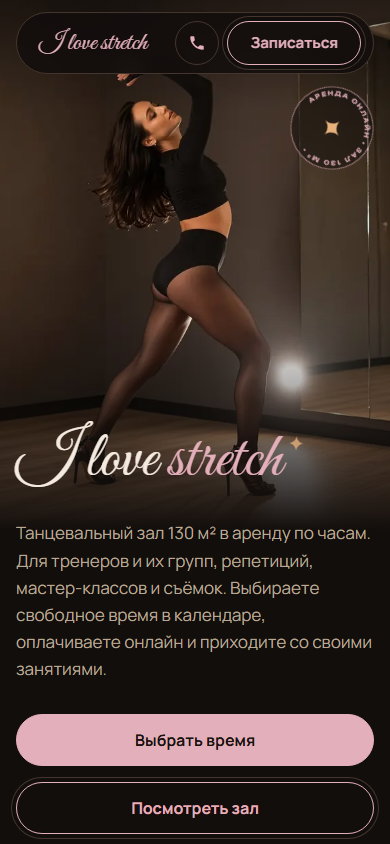
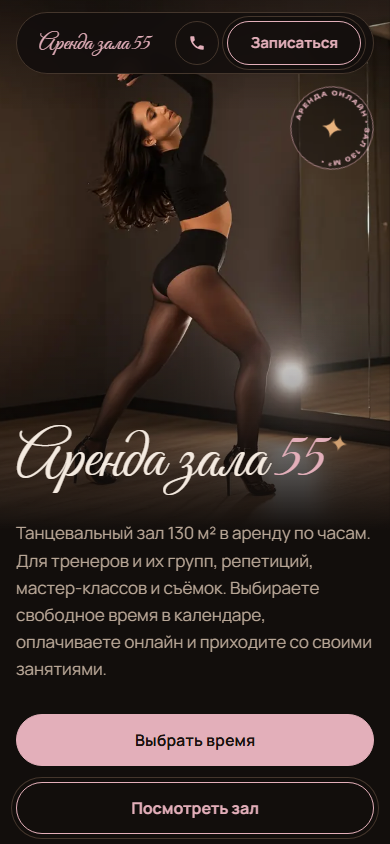
Название «Аренда зала 55», форма записи на втором экране
- Новое название в шапке, заголовке, подвале, письмах, манифесте
- Фавикон «55» вместо сердца
- Блок записи сразу после первого экрана, «Запись» первой в меню
- Логотип на телефоне в одну строку
- В воскресенье после последнего блока календарь открывает следующую неделю
- .gitattributes: одинаковые переводы строк для GitHub

diff --git a/public/index.html b/public/index.html
@@ -3,10 +3,10 @@
 <head>
 <meta charset="utf-8">
 <meta name="viewport" content="width=device-width, initial-scale=1">
-<title>I love stretch — аренда танцевального зала 130 м² по часам в Омске</title>
+<title>Аренда зала 55 — танцевальный зал 130 м² по часам в Омске</title>
 <meta name="description" content="Танцевальный зал 130 м² в аренду по часам в Омске, ул. Фрунзе, 1 к4. Для тренеров, репетиций, мастер-классов и съёмок. Свободное время в календаре, оплата онлайн.">
 <meta name="theme-color" content="#120e0c">
-<link rel="icon" href="/favicon.svg" type="image/svg+xml">
+<link rel="icon" href="/icons/favicon-32.png" type="image/png" sizes="32x32">
 <link rel="icon" href="/favicon.ico" sizes="48x48">
 <link rel="apple-touch-icon" href="/icons/apple-touch-icon.png">
 <link rel="manifest" href="/site.webmanifest">
@@ -23,7 +23,7 @@
 <link rel="preconnect" href="https://fonts.gstatic.com" crossorigin>
 <link href="https://fonts.googleapis.com/css2?family=Cormorant+Garamond:ital,wght@0,500;0,600;1,500;1,600&family=Manrope:wght@400;500;600;700&family=Unbounded:wght@300;500;700&display=swap" rel="stylesheet">
 <!-- каллиграфия без подмены шрифта: надпись не «прыгает» с запасного шрифта -->
-<link href="https://fonts.googleapis.com/css2?family=Great+Vibes&display=block&text=Ilovestrch%20" rel="stylesheet">
+<link href="https://fonts.googleapis.com/css2?family=Great+Vibes&display=block&text=%205%D0%90%D0%B0%D0%B4%D0%B5%D0%B7%D0%BB%D0%BD%D1%80" rel="stylesheet">
 <link rel="stylesheet" href="css/styles.css">
 </head>
 <body>
@@ -36,13 +36,13 @@
 <a class="skip" href="#booking">Перейти к записи</a>
 
 <header class="top">
-  <a class="brand" href="#top" aria-label="I love stretch, наверх">
-    <span class="logo">I love stretch</span>
+  <a class="brand" href="#top" aria-label="Аренда зала 55, наверх">
+    <span class="logo">Аренда зала 55</span>
   </a>
   <nav class="nav" aria-label="Разделы">
-    <a href="#prices">Цены</a>
     <a href="#booking">Запись</a>
     <a href="#gallery">Зал</a>
+    <a href="#prices">Цены</a>
     <a href="#rules">Правила</a>
     <a href="#contacts">Контакты</a>
   </nav>
@@ -63,7 +63,7 @@
 
     <div class="hero-inner">
       <div class="hero-text">
-        <h1 class="logo-title">I love <em>stretch<svg class="spark h1-spark" width="44" height="44" aria-hidden="true"><use href="#spark"/></svg></em></h1>
+        <h1 class="logo-title">Аренда зала <em>55<svg class="spark h1-spark" width="44" height="44" aria-hidden="true"><use href="#spark"/></svg></em></h1>
         <p class="lead">Танцевальный зал 130 м² в аренду по часам. Для тренеров и их групп, репетиций, мастер-классов и съёмок. Выбираете свободное время в календаре, оплачиваете онлайн и приходите со своими занятиями.</p>
         <div class="cta-row">
           <a class="btn" href="#booking">Выбрать время</a>
@@ -92,96 +92,7 @@
     </svg>
   </section>
 
-  <!-- HALL: второй экран, слайдер реальных фото зала -->
-  <section class="hall" id="gallery" aria-labelledby="hallTitle">
-    <div class="hall-head">
-      <h2 id="hallTitle">Наш зал</h2>
-      <p>Только реальные фото: 130 м², окна во всю стену, зеркала, гамаки, раздевалка и ресепшен. Листайте в обе стороны и нажмите на фото, чтобы рассмотреть.</p>
-    </div>
-    <ul class="slider" id="hallSlider" data-slider data-count="hallCount" tabindex="0" aria-label="Фото зала, листайте">
-      <li class="slide"><img data-zoom="hall" data-full="img/hall.webp" src="img/hall.webp" srcset="img/hall-640.webp 640w, img/hall.webp 1280w" sizes="(max-width: 720px) 86vw, 760px" width="1280" height="964" loading="eager" alt="Основной зал: большие окна, зеркала, розовые гамаки, светлый пол"><span class="slide-cap"><b>Основной зал</b><small>1 / 5</small></span></li>
-      <li class="slide"><img data-zoom="hall" data-full="img/zone.webp" src="img/zone.webp" srcset="img/zone-640.webp 640w, img/zone.webp 1280w" sizes="(max-width: 720px) 86vw, 760px" width="1280" height="964" loading="lazy" alt="Зона с зеркалами, стеллажами с ковриками и деревянными перегородками"><span class="slide-cap"><b>Зеркала и инвентарь</b><small>2 / 5</small></span></li>
-      <li class="slide"><img data-zoom="hall" data-full="img/lockers.webp" src="img/lockers.webp" srcset="img/lockers-640.webp 640w, img/lockers.webp 1280w" sizes="(max-width: 720px) 86vw, 760px" width="1280" height="964" loading="lazy" alt="Раздевалка: шкафчики с номерами и скамейки"><span class="slide-cap"><b>Раздевалка</b><small>3 / 5</small></span></li>
-      <li class="slide"><img data-zoom="hall" data-full="img/mirror.webp" src="img/mirror.webp" srcset="img/mirror-640.webp 640w, img/mirror.webp 1280w" sizes="(max-width: 720px) 86vw, 760px" width="1280" height="964" loading="lazy" alt="Зеркало с подсветкой и фен в раздевалке"><span class="slide-cap"><b>Зеркало и фен</b><small>4 / 5</small></span></li>
-      <li class="slide"><img data-zoom="hall" data-full="img/reception.webp" src="img/reception.webp" srcset="img/reception-640.webp 640w, img/reception.webp 1280w" sizes="(max-width: 720px) 86vw, 760px" width="1280" height="964" loading="lazy" alt="Ресепшен и зона ожидания со скамейкой"><span class="slide-cap"><b>Ресепшен</b><small>5 / 5</small></span></li>
-    </ul>
-    <div class="slider-nav">
-      <button class="icon-btn" type="button" data-nav="hallSlider" data-dir="-1" aria-label="Предыдущее фото">
-        <svg width="20" height="20" viewBox="0 0 24 24" aria-hidden="true"><path d="M15 6l-6 6 6 6" fill="none" stroke="currentColor" stroke-width="2" stroke-linecap="round" stroke-linejoin="round"/></svg>
-      </button>
-      <span class="slider-count" id="hallCount" aria-live="polite">1 / 5</span>
-      <button class="icon-btn" type="button" data-nav="hallSlider" data-dir="1" aria-label="Следующее фото">
-        <svg width="20" height="20" viewBox="0 0 24 24" aria-hidden="true"><path d="M9 6l6 6-6 6" fill="none" stroke="currentColor" stroke-width="2" stroke-linecap="round" stroke-linejoin="round"/></svg>
-      </button>
-    </div>
-  </section>
-
-  <!-- HOW -->
-  <section class="section how">
-    <div class="how-photos">
-      <img class="how-a" data-zoom="mood" data-full="img/heels-mirror.webp" src="img/heels-mirror-640.webp" srcset="img/heels-mirror-640.webp 640w, img/heels-mirror.webp 1152w" sizes="(max-width: 960px) 70vw, 340px" width="1152" height="1728" loading="lazy" alt="Танцовщица на каблуках у зеркала в тёмном зале">
-      <img class="how-b" data-zoom="mood" data-full="img/g-heels-group.webp" src="img/g-heels-group.webp" width="459" height="461" loading="lazy" alt="Групповое занятие на каблуках у зеркал">
-    </div>
-    <div class="how-text">
-      <h2>Как арендовать</h2>
-      <ol class="steps">
-        <li><span class="num">1</span><div><h3>Выберите время</h3><p>Зал бронируется блоками по 2 часа. Можно взять несколько блоков подряд, цена видна сразу.</p></div></li>
-        <li><span class="num">2</span><div><h3>Оставьте данные</h3><p>Имя, телефон, почта и, если хотите, формат: тренировка, репетиция, съёмка.</p></div></li>
-        <li><span class="num">3</span><div><h3>Оплатите онлайн</h3><p>Картой или через СБП прямо на сайте, в форме ЮKassa.</p></div></li>
-        <li><span class="num">4</span><div><h3>Получите письмо с инструкцией</h3><p>Время, адрес и где взять ключ: за 15 минут до начала в офисе ITB, 3 этаж, офис 307.</p></div></li>
-      </ol>
-    </div>
-  </section>
-
-  <!-- PRICES -->
-  <section class="section" id="prices">
-    <h2>Цены</h2>
-    <p class="section-lead">Зал бронируется блоками по 2 часа. Вечер самое востребованное время, поэтому дороже.</p>
-    <div class="tariffs">
-      <article class="tariff tariff-day">
-        <img class="tariff-photo" data-zoom="mood" data-full="img/g-aerial-hammock.webp" src="img/g-aerial-hammock.webp" width="459" height="461" loading="lazy" alt="Днём в зале светло: растяжка в гамаке">
-        <p class="tariff-name">День</p>
-        <p class="tariff-price"><span id="priceDay">800</span> ₽<small>/час</small></p>
-        <p class="tariff-time">09:00 – 17:00</p>
-        <p class="tariff-note">1 600 ₽ за блок 2 часа</p>
-      </article>
-      <article class="tariff tariff-peak">
-        <img class="tariff-photo" data-zoom="mood" data-full="img/heels-hero.webp" src="img/heels-hero-800.webp" srcset="img/heels-hero-800.webp 800w, img/heels-hero.webp 1408w" sizes="(max-width: 720px) 100vw, 560px" width="1408" height="1408" loading="lazy" alt="Вечерняя тренировка: тёплый свет и зеркала">
-        <p class="tariff-name">Вечер</p>
-        <p class="tariff-price"><span id="pricePeak">1 000</span> ₽<small>/час</small></p>
-        <p class="tariff-time">17:00 – 21:00</p>
-        <p class="tariff-note">2 000 ₽ за блок 2 часа</p>
-      </article>
-    </div>
-    <div class="timeline" aria-hidden="true">
-      <div class="tl-bar"><i class="d" style="flex:8"></i><i class="p" style="flex:4"></i></div>
-      <div class="tl-scale"><span>09</span><span>13</span><span>17</span><span>21</span></div>
-    </div>
-  </section>
-
-  <!-- RIBBON: лента фото занятий, листается в обе стороны -->
-  <section class="ribbon" aria-label="Фото занятий в зале">
-    <ul class="slider slider--tiles" id="moodSlider" data-slider data-count="moodCount" tabindex="0" aria-label="Фото занятий, листайте">
-      <li class="tile"><img data-zoom="mood" data-full="img/g-heels-group.webp" src="img/g-heels-group.webp" width="459" height="459" loading="lazy" alt="Групповое занятие на каблуках у зеркал"></li>
-      <li class="tile"><img data-zoom="mood" data-full="img/g-aerial-lilac.webp" src="img/g-aerial-lilac.webp" width="459" height="459" loading="lazy" alt="Аэройога на полотнах в светлом зале"></li>
-      <li class="tile"><img data-zoom="mood" data-full="img/g-heels-floor.webp" src="img/g-heels-floor.webp" width="459" height="459" loading="lazy" alt="Хилс: партер на каблуках"></li>
-      <li class="tile"><img data-zoom="mood" data-full="img/g-aerial-loft.webp" src="img/g-aerial-loft.webp" width="459" height="459" loading="lazy" alt="Полотна в зале с большими окнами"></li>
-      <li class="tile"><img data-zoom="mood" data-full="img/g-heels-fringe.webp" src="img/g-heels-fringe.webp" width="459" height="459" loading="lazy" alt="Танцовщица на каблуках в тёплом зале со станком"></li>
-      <li class="tile"><img data-zoom="mood" data-full="img/g-aerial-hammock.webp" src="img/g-aerial-hammock.webp" width="459" height="459" loading="lazy" alt="Растяжка в гамаке"></li>
-      <li class="tile"><img data-zoom="mood" data-full="img/g-twerk.webp" src="img/g-twerk.webp" width="459" height="459" loading="lazy" alt="Тверк в тёмном зале"></li>
-    </ul>
-    <div class="slider-nav">
-      <button class="icon-btn" type="button" data-nav="moodSlider" data-dir="-1" aria-label="Предыдущее фото">
-        <svg width="20" height="20" viewBox="0 0 24 24" aria-hidden="true"><path d="M15 6l-6 6 6 6" fill="none" stroke="currentColor" stroke-width="2" stroke-linecap="round" stroke-linejoin="round"/></svg>
-      </button>
-      <span class="slider-count" id="moodCount" aria-live="polite">1 / 7</span>
-      <button class="icon-btn" type="button" data-nav="moodSlider" data-dir="1" aria-label="Следующее фото">
-        <svg width="20" height="20" viewBox="0 0 24 24" aria-hidden="true"><path d="M9 6l6 6-6 6" fill="none" stroke="currentColor" stroke-width="2" stroke-linecap="round" stroke-linejoin="round"/></svg>
-      </button>
-    </div>
-  </section>
-
-  <!-- BOOKING -->
+  <!-- BOOKING: второй экран — сразу после первого -->
   <section class="section booking" id="booking" aria-labelledby="bookingTitle">
     <h2 id="bookingTitle">Выберите время</h2>
     <p class="section-lead">Бронь блоками по 2 часа: 09–11, 11–13 и так далее. В один день можно взять несколько блоков подряд, чтобы убрать блок, нажмите на крайний выбранный.</p>
@@ -291,6 +202,95 @@
     </div>
   </section>
 
+  <!-- HALL: слайдер реальных фото зала -->
+  <section class="hall" id="gallery" aria-labelledby="hallTitle">
+    <div class="hall-head">
+      <h2 id="hallTitle">Наш зал</h2>
+      <p>Только реальные фото: 130 м², окна во всю стену, зеркала, гамаки, раздевалка и ресепшен. Листайте в обе стороны и нажмите на фото, чтобы рассмотреть.</p>
+    </div>
+    <ul class="slider" id="hallSlider" data-slider data-count="hallCount" tabindex="0" aria-label="Фото зала, листайте">
+      <li class="slide"><img data-zoom="hall" data-full="img/hall.webp" src="img/hall.webp" srcset="img/hall-640.webp 640w, img/hall.webp 1280w" sizes="(max-width: 720px) 86vw, 760px" width="1280" height="964" loading="eager" alt="Основной зал: большие окна, зеркала, розовые гамаки, светлый пол"><span class="slide-cap"><b>Основной зал</b><small>1 / 5</small></span></li>
+      <li class="slide"><img data-zoom="hall" data-full="img/zone.webp" src="img/zone.webp" srcset="img/zone-640.webp 640w, img/zone.webp 1280w" sizes="(max-width: 720px) 86vw, 760px" width="1280" height="964" loading="lazy" alt="Зона с зеркалами, стеллажами с ковриками и деревянными перегородками"><span class="slide-cap"><b>Зеркала и инвентарь</b><small>2 / 5</small></span></li>
+      <li class="slide"><img data-zoom="hall" data-full="img/lockers.webp" src="img/lockers.webp" srcset="img/lockers-640.webp 640w, img/lockers.webp 1280w" sizes="(max-width: 720px) 86vw, 760px" width="1280" height="964" loading="lazy" alt="Раздевалка: шкафчики с номерами и скамейки"><span class="slide-cap"><b>Раздевалка</b><small>3 / 5</small></span></li>
+      <li class="slide"><img data-zoom="hall" data-full="img/mirror.webp" src="img/mirror.webp" srcset="img/mirror-640.webp 640w, img/mirror.webp 1280w" sizes="(max-width: 720px) 86vw, 760px" width="1280" height="964" loading="lazy" alt="Зеркало с подсветкой и фен в раздевалке"><span class="slide-cap"><b>Зеркало и фен</b><small>4 / 5</small></span></li>
+      <li class="slide"><img data-zoom="hall" data-full="img/reception.webp" src="img/reception.webp" srcset="img/reception-640.webp 640w, img/reception.webp 1280w" sizes="(max-width: 720px) 86vw, 760px" width="1280" height="964" loading="lazy" alt="Ресепшен и зона ожидания со скамейкой"><span class="slide-cap"><b>Ресепшен</b><small>5 / 5</small></span></li>
+    </ul>
+    <div class="slider-nav">
+      <button class="icon-btn" type="button" data-nav="hallSlider" data-dir="-1" aria-label="Предыдущее фото">
+        <svg width="20" height="20" viewBox="0 0 24 24" aria-hidden="true"><path d="M15 6l-6 6 6 6" fill="none" stroke="currentColor" stroke-width="2" stroke-linecap="round" stroke-linejoin="round"/></svg>
+      </button>
+      <span class="slider-count" id="hallCount" aria-live="polite">1 / 5</span>
+      <button class="icon-btn" type="button" data-nav="hallSlider" data-dir="1" aria-label="Следующее фото">
+        <svg width="20" height="20" viewBox="0 0 24 24" aria-hidden="true"><path d="M9 6l6 6-6 6" fill="none" stroke="currentColor" stroke-width="2" stroke-linecap="round" stroke-linejoin="round"/></svg>
+      </button>
+    </div>
+  </section>
+
+  <!-- HOW -->
+  <section class="section how">
+    <div class="how-photos">
+      <img class="how-a" data-zoom="mood" data-full="img/heels-mirror.webp" src="img/heels-mirror-640.webp" srcset="img/heels-mirror-640.webp 640w, img/heels-mirror.webp 1152w" sizes="(max-width: 960px) 70vw, 340px" width="1152" height="1728" loading="lazy" alt="Танцовщица на каблуках у зеркала в тёмном зале">
+      <img class="how-b" data-zoom="mood" data-full="img/g-heels-group.webp" src="img/g-heels-group.webp" width="459" height="461" loading="lazy" alt="Групповое занятие на каблуках у зеркал">
+    </div>
+    <div class="how-text">
+      <h2>Как арендовать</h2>
+      <ol class="steps">
+        <li><span class="num">1</span><div><h3>Выберите время</h3><p>Зал бронируется блоками по 2 часа. Можно взять несколько блоков подряд, цена видна сразу.</p></div></li>
+        <li><span class="num">2</span><div><h3>Оставьте данные</h3><p>Имя, телефон, почта и, если хотите, формат: тренировка, репетиция, съёмка.</p></div></li>
+        <li><span class="num">3</span><div><h3>Оплатите онлайн</h3><p>Картой или через СБП прямо на сайте, в форме ЮKassa.</p></div></li>
+        <li><span class="num">4</span><div><h3>Получите письмо с инструкцией</h3><p>Время, адрес и где взять ключ: за 15 минут до начала в офисе ITB, 3 этаж, офис 307.</p></div></li>
+      </ol>
+    </div>
+  </section>
+
+  <!-- PRICES -->
+  <section class="section" id="prices">
+    <h2>Цены</h2>
+    <p class="section-lead">Зал бронируется блоками по 2 часа. Вечер самое востребованное время, поэтому дороже.</p>
+    <div class="tariffs">
+      <article class="tariff tariff-day">
+        <img class="tariff-photo" data-zoom="mood" data-full="img/g-aerial-hammock.webp" src="img/g-aerial-hammock.webp" width="459" height="461" loading="lazy" alt="Днём в зале светло: растяжка в гамаке">
+        <p class="tariff-name">День</p>
+        <p class="tariff-price"><span id="priceDay">800</span> ₽<small>/час</small></p>
+        <p class="tariff-time">09:00 – 17:00</p>
+        <p class="tariff-note">1 600 ₽ за блок 2 часа</p>
+      </article>
+      <article class="tariff tariff-peak">
+        <img class="tariff-photo" data-zoom="mood" data-full="img/heels-hero.webp" src="img/heels-hero-800.webp" srcset="img/heels-hero-800.webp 800w, img/heels-hero.webp 1408w" sizes="(max-width: 720px) 100vw, 560px" width="1408" height="1408" loading="lazy" alt="Вечерняя тренировка: тёплый свет и зеркала">
+        <p class="tariff-name">Вечер</p>
+        <p class="tariff-price"><span id="pricePeak">1 000</span> ₽<small>/час</small></p>
+        <p class="tariff-time">17:00 – 21:00</p>
+        <p class="tariff-note">2 000 ₽ за блок 2 часа</p>
+      </article>
+    </div>
+    <div class="timeline" aria-hidden="true">
+      <div class="tl-bar"><i class="d" style="flex:8"></i><i class="p" style="flex:4"></i></div>
+      <div class="tl-scale"><span>09</span><span>13</span><span>17</span><span>21</span></div>
+    </div>
+  </section>
+
+  <!-- RIBBON: лента фото занятий, листается в обе стороны -->
+  <section class="ribbon" aria-label="Фото занятий в зале">
+    <ul class="slider slider--tiles" id="moodSlider" data-slider data-count="moodCount" tabindex="0" aria-label="Фото занятий, листайте">
+      <li class="tile"><img data-zoom="mood" data-full="img/g-heels-group.webp" src="img/g-heels-group.webp" width="459" height="459" loading="lazy" alt="Групповое занятие на каблуках у зеркал"></li>
+      <li class="tile"><img data-zoom="mood" data-full="img/g-aerial-lilac.webp" src="img/g-aerial-lilac.webp" width="459" height="459" loading="lazy" alt="Аэройога на полотнах в светлом зале"></li>
+      <li class="tile"><img data-zoom="mood" data-full="img/g-heels-floor.webp" src="img/g-heels-floor.webp" width="459" height="459" loading="lazy" alt="Хилс: партер на каблуках"></li>
+      <li class="tile"><img data-zoom="mood" data-full="img/g-aerial-loft.webp" src="img/g-aerial-loft.webp" width="459" height="459" loading="lazy" alt="Полотна в зале с большими окнами"></li>
+      <li class="tile"><img data-zoom="mood" data-full="img/g-heels-fringe.webp" src="img/g-heels-fringe.webp" width="459" height="459" loading="lazy" alt="Танцовщица на каблуках в тёплом зале со станком"></li>
+      <li class="tile"><img data-zoom="mood" data-full="img/g-aerial-hammock.webp" src="img/g-aerial-hammock.webp" width="459" height="459" loading="lazy" alt="Растяжка в гамаке"></li>
+      <li class="tile"><img data-zoom="mood" data-full="img/g-twerk.webp" src="img/g-twerk.webp" width="459" height="459" loading="lazy" alt="Тверк в тёмном зале"></li>
+    </ul>
+    <div class="slider-nav">
+      <button class="icon-btn" type="button" data-nav="moodSlider" data-dir="-1" aria-label="Предыдущее фото">
+        <svg width="20" height="20" viewBox="0 0 24 24" aria-hidden="true"><path d="M15 6l-6 6 6 6" fill="none" stroke="currentColor" stroke-width="2" stroke-linecap="round" stroke-linejoin="round"/></svg>
+      </button>
+      <span class="slider-count" id="moodCount" aria-live="polite">1 / 7</span>
+      <button class="icon-btn" type="button" data-nav="moodSlider" data-dir="1" aria-label="Следующее фото">
+        <svg width="20" height="20" viewBox="0 0 24 24" aria-hidden="true"><path d="M9 6l6 6-6 6" fill="none" stroke="currentColor" stroke-width="2" stroke-linecap="round" stroke-linejoin="round"/></svg>
+      </button>
+    </div>
+  </section>
+
   <!-- RULES -->
   <section class="section" id="rules">
     <h2>Что входит и как у нас принято</h2>
@@ -343,7 +343,7 @@
 </main>
 
 <footer class="foot">
-  <span class="logo logo--foot">I love stretch</span>
+  <span class="logo logo--foot">Аренда зала 55</span>
   <span class="muted">Аренда танцевального зала по часам · Омск</span>
 </footer>
 

diff --git a/public/js/app.js b/public/js/app.js
@@ -1,4 +1,4 @@
-/* I love stretch — фронтенд записи.
+/* Аренда зала 55 — фронтенд записи.
    Все цены, занятость и бронь приходят с сервера (/api/*). Браузеру ничего не доверяем:
    сервер сам пересчитывает цену и заново проверяет, что слот свободен. */
 (function () {
@@ -761,6 +761,10 @@
       CONFIG = cfg;
       clock = { date: cfg.today, minutes: cfg.nowMinutes, at: Date.now() };
       MAX_WEEK = Math.floor(cfg.horizonDays / 7);
+      // воскресенье после последнего доступного блока: на этой неделе брать нечего, открываем следующую
+      var now = studioNow(), dow = (dateFromKey(now.date).getDay() + 6) % 7;
+      var lastStart = (cfg.closeHour - (cfg.slotHours || 1)) * 60;
+      if (bound === false && dow === 6 && now.minutes + cfg.minLeadMinutes > lastStart) state.weekOffset = 1;
       $('priceDay').textContent = num(cfg.priceDay);
       $('pricePeak').textContent = num(cfg.pricePeak);
       $('formHint').textContent = (cfg.payment === 'transfer' ? 'Оплата переводом на следующем шаге.' : 'Оплата картой или через СБП прямо на сайте, форма ЮKassa.') +

diff --git a/public/css/styles.css b/public/css/styles.css
@@ -144,7 +144,7 @@ h3 { font-family: var(--font-body); font-weight: 700; font-size: 18px; line-heig
 .hero h1 em { display: inline-flex; align-items: flex-start; gap: 6px; font-style: normal; color: var(--violet); }
 /* название залом каллиграфией */
 .logo { font-family: var(--font-script); font-weight: 400; letter-spacing: 0; text-transform: none; color: var(--violet); line-height: 1; }
-.brand .logo { font-size: 30px; }
+.brand .logo { font-size: 30px; white-space: nowrap; }
 .logo--foot { font-size: 28px; }
 .hero h1.logo-title { font-family: var(--font-script); font-weight: 400; font-size: clamp(64px, 9vw, 136px); line-height: 1.05; letter-spacing: 0; color: var(--text); }
 .top-actions { display: flex; align-items: center; gap: 8px; }
@@ -553,7 +553,7 @@ dialog::backdrop { background: rgba(8, 6, 11, .8); }
 @media (max-width: 720px) {
   .top-phone span { display: none; }
   .top-phone { width: 44px; padding: 0; justify-content: center; border: 1px solid var(--line); }
-  .brand .logo { font-size: 26px; }
+  .brand .logo { font-size: 23px; white-space: nowrap; }
 }
 
 /* сдвинутые до появления блоки не должны давать горизонтальную прокрутку */

diff --git a/server/mail.js b/server/mail.js
@@ -82,7 +82,7 @@ function icsEvent(cfg, b) {
   const stamp = f(new Date());
   const events = rangesOf(b).map((r, i) => [
     'BEGIN:VEVENT',
-    `UID:booking-${b.code}-${i + 1}@ilovestretch`,
+    `UID:booking-${b.code}-${i + 1}@arenda-zala-55`,
     `DTSTAMP:${stamp}`,
     `DTSTART:${f(r.start)}`,
     `DTEND:${f(r.end)}`,
@@ -92,7 +92,7 @@ function icsEvent(cfg, b) {
     'BEGIN:VALARM', 'TRIGGER:-PT60M', 'ACTION:DISPLAY', `DESCRIPTION:${clean('Через час аренда зала')}`, 'END:VALARM',
     'END:VEVENT',
   ].join('\r\n'));
-  return ['BEGIN:VCALENDAR', 'VERSION:2.0', 'PRODID:-//I love stretch//booking//RU', 'CALSCALE:GREGORIAN', 'METHOD:PUBLISH', ...events, 'END:VCALENDAR', ''].join('\r\n');
+  return ['BEGIN:VCALENDAR', 'VERSION:2.0', 'PRODID:-//Arenda zala 55//booking//RU', 'CALSCALE:GREGORIAN', 'METHOD:PUBLISH', ...events, 'END:VCALENDAR', ''].join('\r\n');
 }
 
 const when = (b) => whenLines(b).join('; ');

diff --git a/docs/mail-preview/adminPaid.html b/docs/mail-preview/adminPaid.html
@@ -4,7 +4,7 @@
 <table role="presentation" width="100%" cellpadding="0" cellspacing="0" style="background:#f4ece5;"><tr><td align="center" style="padding:24px 12px;">
 <table role="presentation" width="100%" cellpadding="0" cellspacing="0" style="max-width:560px;background:#ffffff;border-radius:16px;overflow:hidden;font-family:Arial,Helvetica,sans-serif;color:#2a211b;">
 <tr><td style="background:#1f1814;padding:22px 28px;">
-  <div style="font-family:'Great Vibes','Segoe Script','Brush Script MT',cursive;font-size:34px;line-height:1;color:#e3afba;">I love stretch</div>
+  <div style="font-family:'Great Vibes','Segoe Script','Brush Script MT',cursive;font-size:34px;line-height:1;color:#e3afba;">Аренда зала 55</div>
   <div style="margin-top:6px;font-size:13px;color:#b9a797;">Аренда танцевального зала по часам · Омск</div>
 </td></tr>
 <tr><td style="padding:28px;">

diff --git a/docs/mail-preview/clientCreated.html b/docs/mail-preview/clientCreated.html
@@ -4,7 +4,7 @@
 <table role="presentation" width="100%" cellpadding="0" cellspacing="0" style="background:#f4ece5;"><tr><td align="center" style="padding:24px 12px;">
 <table role="presentation" width="100%" cellpadding="0" cellspacing="0" style="max-width:560px;background:#ffffff;border-radius:16px;overflow:hidden;font-family:Arial,Helvetica,sans-serif;color:#2a211b;">
 <tr><td style="background:#1f1814;padding:22px 28px;">
-  <div style="font-family:'Great Vibes','Segoe Script','Brush Script MT',cursive;font-size:34px;line-height:1;color:#e3afba;">I love stretch</div>
+  <div style="font-family:'Great Vibes','Segoe Script','Brush Script MT',cursive;font-size:34px;line-height:1;color:#e3afba;">Аренда зала 55</div>
   <div style="margin-top:6px;font-size:13px;color:#b9a797;">Аренда танцевального зала по часам · Омск</div>
 </td></tr>
 <tr><td style="padding:28px;">

diff --git a/docs/mail-preview/clientExpired.html b/docs/mail-preview/clientExpired.html
@@ -4,7 +4,7 @@
 <table role="presentation" width="100%" cellpadding="0" cellspacing="0" style="background:#f4ece5;"><tr><td align="center" style="padding:24px 12px;">
 <table role="presentation" width="100%" cellpadding="0" cellspacing="0" style="max-width:560px;background:#ffffff;border-radius:16px;overflow:hidden;font-family:Arial,Helvetica,sans-serif;color:#2a211b;">
 <tr><td style="background:#1f1814;padding:22px 28px;">
-  <div style="font-family:'Great Vibes','Segoe Script','Brush Script MT',cursive;font-size:34px;line-height:1;color:#e3afba;">I love stretch</div>
+  <div style="font-family:'Great Vibes','Segoe Script','Brush Script MT',cursive;font-size:34px;line-height:1;color:#e3afba;">Аренда зала 55</div>
   <div style="margin-top:6px;font-size:13px;color:#b9a797;">Аренда танцевального зала по часам · Омск</div>
 </td></tr>
 <tr><td style="padding:28px;">

diff --git a/docs/mail-preview/clientPaid.html b/docs/mail-preview/clientPaid.html
@@ -4,7 +4,7 @@
 <table role="presentation" width="100%" cellpadding="0" cellspacing="0" style="background:#f4ece5;"><tr><td align="center" style="padding:24px 12px;">
 <table role="presentation" width="100%" cellpadding="0" cellspacing="0" style="max-width:560px;background:#ffffff;border-radius:16px;overflow:hidden;font-family:Arial,Helvetica,sans-serif;color:#2a211b;">
 <tr><td style="background:#1f1814;padding:22px 28px;">
-  <div style="font-family:'Great Vibes','Segoe Script','Brush Script MT',cursive;font-size:34px;line-height:1;color:#e3afba;">I love stretch</div>
+  <div style="font-family:'Great Vibes','Segoe Script','Brush Script MT',cursive;font-size:34px;line-height:1;color:#e3afba;">Аренда зала 55</div>
   <div style="margin-top:6px;font-size:13px;color:#b9a797;">Аренда танцевального зала по часам · Омск</div>
 </td></tr>
 <tr><td style="padding:28px;">

diff --git a/docs/mail-preview/clientRefunded.html b/docs/mail-preview/clientRefunded.html
@@ -4,7 +4,7 @@
 <table role="presentation" width="100%" cellpadding="0" cellspacing="0" style="background:#f4ece5;"><tr><td align="center" style="padding:24px 12px;">
 <table role="presentation" width="100%" cellpadding="0" cellspacing="0" style="max-width:560px;background:#ffffff;border-radius:16px;overflow:hidden;font-family:Arial,Helvetica,sans-serif;color:#2a211b;">
 <tr><td style="background:#1f1814;padding:22px 28px;">
-  <div style="font-family:'Great Vibes','Segoe Script','Brush Script MT',cursive;font-size:34px;line-height:1;color:#e3afba;">I love stretch</div>
+  <div style="font-family:'Great Vibes','Segoe Script','Brush Script MT',cursive;font-size:34px;line-height:1;color:#e3afba;">Аренда зала 55</div>
   <div style="margin-top:6px;font-size:13px;color:#b9a797;">Аренда танцевального зала по часам · Омск</div>
 </td></tr>
 <tr><td style="padding:28px;">

diff --git a/public/404.html b/public/404.html
@@ -3,10 +3,10 @@
 <head>
 <meta charset="utf-8">
 <meta name="viewport" content="width=device-width, initial-scale=1">
-<title>Страница не найдена — I love stretch</title>
+<title>Страница не найдена — Аренда зала 55</title>
 <meta name="robots" content="noindex">
 <meta name="theme-color" content="#120e0c">
-<link rel="icon" href="/favicon.svg" type="image/svg+xml">
+<link rel="icon" href="/icons/favicon-32.png" type="image/png" sizes="32x32">
 <link rel="icon" href="/favicon.ico" sizes="48x48">
 <link rel="apple-touch-icon" href="/icons/apple-touch-icon.png">
 <link rel="manifest" href="/site.webmanifest">
